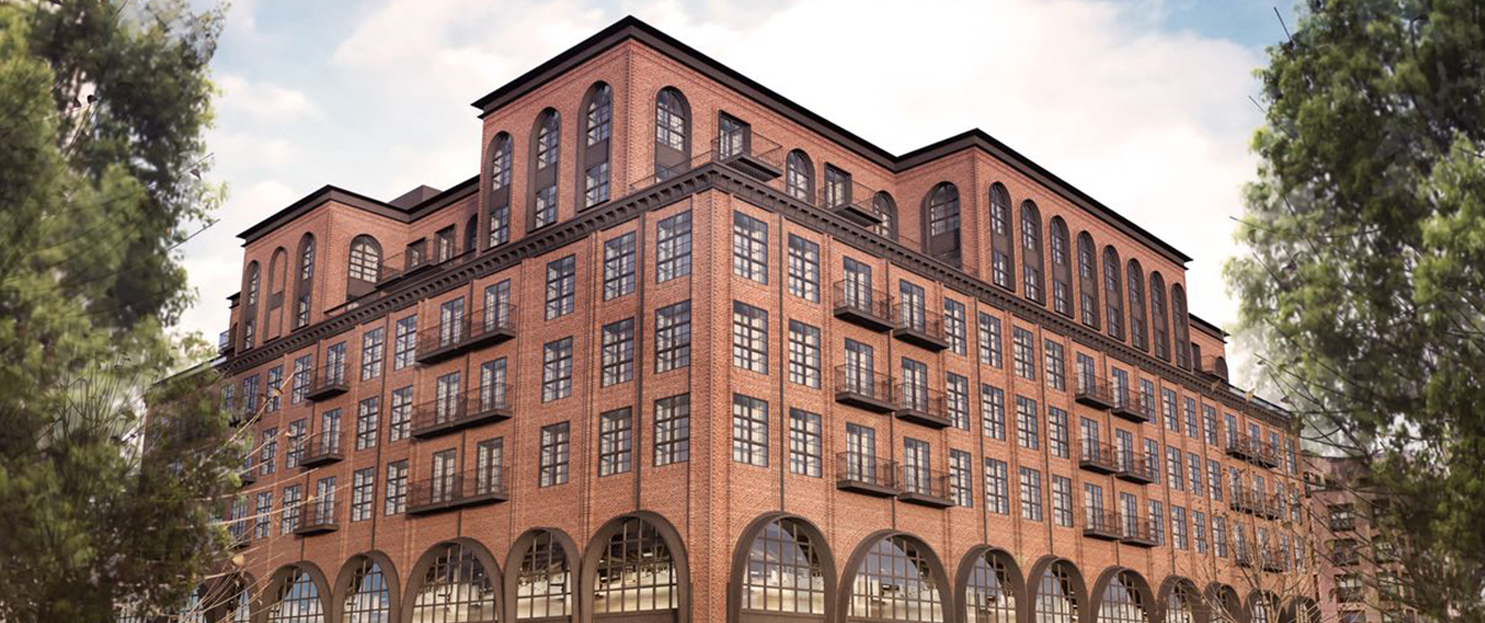
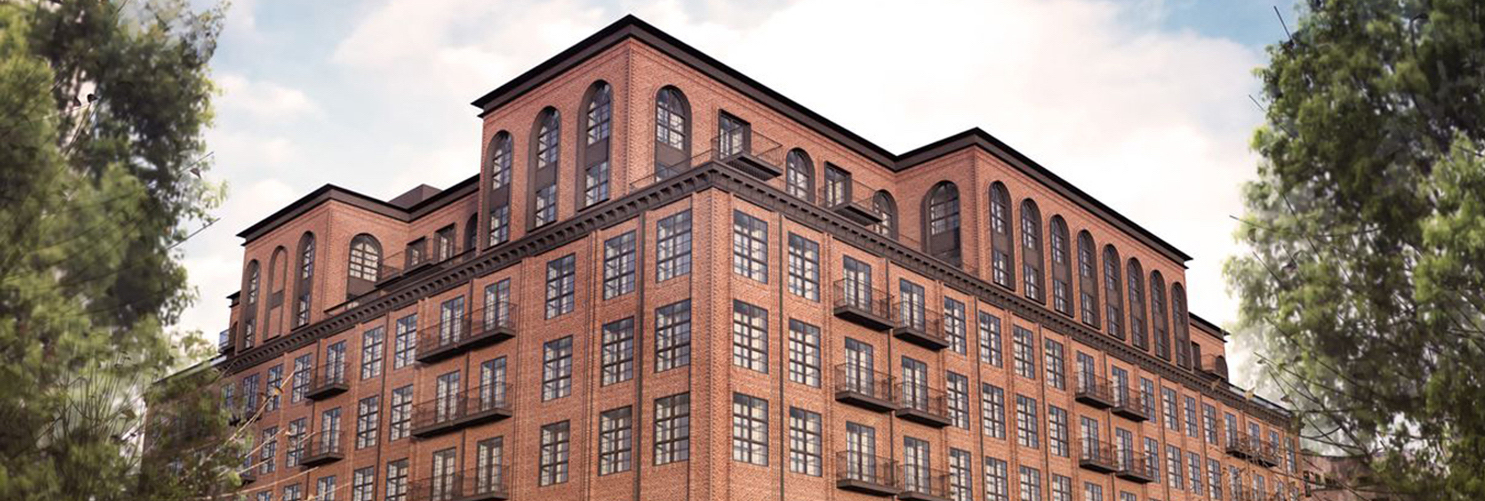
updates

diff --git a/index.html b/index.html
@@ -47,7 +47,7 @@
       </style>
     </head>
 
-    <nav class="navbar navbar-expand-lg navbar-light bg-light d-none d-sm-none d-md-none d-lg-block" style="background-color:#2b3b09!important;">
+    <nav class="navbar navbar-expand-lg navbar-light bg-light d-none d-sm-none d-md-none d-lg-block" style="background-color:#444c33!important;">
         <button class="navbar-toggler" type="button" data-toggle="collapse" data-target="#navbarTogglerDemo03" aria-controls="navbarTogglerDemo03" aria-expanded="false" aria-label="Toggle navigation">
           <span class="navbar-toggler-icon">
           </span>
@@ -130,11 +130,11 @@
 
 
  <div class="container-fluid">
-    <div class="container my-5">
+    <div class="container my-5 px-5">
         <div class="row p-4" >
             <div class="col-12">
 
-                <p class="text-center" style="line-height: 2rem;">
+                <p class="text-center h5" style="line-height: 2rem;">
                     We work with small businesses and organization to help position themselves for growth. By focusing on your accounting and
                     finance function, we save you time and energy to concentrate on the important day-to-day items. As a trusted advisor, you
                     can collaborate with an experienced professional with industry specialization and develop your business. From core
@@ -143,7 +143,7 @@
                 <span class="glyphicon glyphicon-user"></span>
                 <i class="fa fa-bar-chart"></i>
                 <i class="fa fa-users"></i>
-                <i class='fa fa-book'></i>
+
                 <i class='fa fa-comments-dollar'></i>
                 <i class='fa fa-file-invoice-dollar'></i>
                 
@@ -154,7 +154,7 @@
 
  <div class="container-fluid" >
     <div class="container my-5" >
-        <div class="row p-4" style="background-color:#EBECF0;">
+        <div class="row p-4" style="background-color:#f3f3f4;">
             <div class="col-12 col-md-6">
                 <h2>
                     Challenges You Face
@@ -193,7 +193,7 @@
  
  <div class="container-fluid" >
     <div class="container my-5">
-        <div class="row p-4" style="background-color:#EBECF0;">
+        <div class="row p-4" style="background-color:#f3f3f4;">
             <div class="col-12 col-md-6">
                 <p class="text-center py-5">
                     <img src="images/ManTakingNotes.png">
@@ -241,6 +241,9 @@
     <div class="container my-5">
         <div class="row">
             <div class="col-md-3">
+                <p class="text-center">
+                    <i style="background-color:#444c33;" class='fa fa-book'></i>
+                </p>
                 <h5>
                     Bookkeeper
                 </h5>
@@ -397,7 +400,7 @@
           background-position: center center;
           background-size: 100% 100%;
           /* set height to be same as image dimensions ratio of 1004/750 compared to full width of screen */
-          height: calc( 100vw * 623/1485);
+          height: calc( 100vw * 501/1485);
 
         }
     }
@@ -407,7 +410,7 @@
             background-repeat: no-repeat;
             background-position: center center;
             background-size: 100% 100%;
-            height: calc( 100vw * 623/1485);
+            height: calc( 100vw * 501/1485);
             background-image: url("images/187-kent-avenue-01.jpg")
         }
     }
